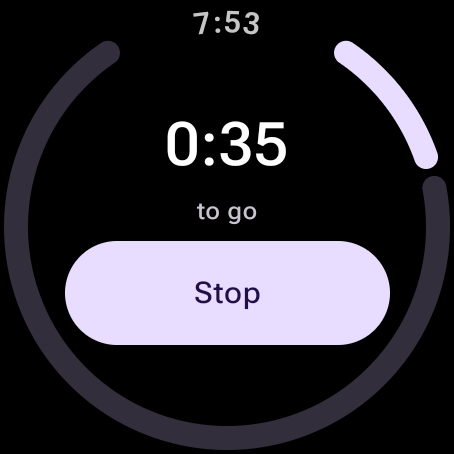
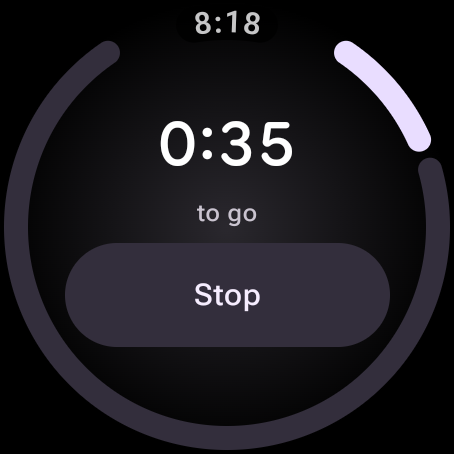
docs,chore: UX audit for centred Start, showcase replay script

diff --git a/wear/src/main/java/com/hapticwash/ui/MainActivity.kt b/wear/src/main/java/com/hapticwash/ui/MainActivity.kt
@@ -271,13 +271,7 @@ private fun StartScreen(onWash: () -> Unit, onHistory: () -> Unit, onSettings: (
     }
     val state = rememberTransformingLazyColumnState()
     val spec = rememberTransformationSpec()
-    // The one primary action hugs the bottom curve, where the Tile puts it too, so app and Tile read as one (§4.1.3).
-    ScreenScaffold(state, edgeButton = {
-        EdgeButton(::start, buttonSize = EdgeButtonSize.Medium) {
-            Text(stringResource(if (status.running) R.string.session_running else R.string.start_wash))
-        }
-    }) { padding ->
-        // Short enough to fit above the full-size EdgeButton: a longer list would shrink it until scrolled (§4.1.4).
+    ScreenScaffold(state) { padding ->
         TransformingLazyColumn(state = state, contentPadding = padding, verticalArrangement = Arrangement.spacedBy(4.dp, Alignment.CenterVertically)) {
             // The last takeaway in the Tile's words, so the screen says something at a glance. Weight and size make the hierarchy, not a container.
             item {

diff --git a/docs/UX_AUDIT.md b/docs/UX_AUDIT.md
@@ -9,7 +9,8 @@ power) and the `HapticWash` logcat tag.
 ## Screens
 
 `screencap` saves the full square frame. The watch shows only the inscribed circle. Screenshots
-replaced by the EdgeButton redesign (below) are kept as `ux/old_*.png`.
+replaced by the EdgeButton redesign (below) are kept as `ux/old_*.png`; the EdgeButton Start is
+`ux/old_start_edge.png`.
 
 | Screen | Screenshot |
 |---|---|
@@ -35,9 +36,9 @@ Columns are the screens: **St** Start, **IP** In-progress, **Su** Summary, **Hi*
 | § | Item | St | IP | Su | Hi | Se | Notes |
 |---|---|---|---|---|---|---|---|
 | 1 | Glanceable < 5 s | ✓ | ✓ | ✓ | ✓ | ✓ | Each screen has one header and short lines. Summary is five rows of a Step name and its Status. |
-| 2 | Round-safe, scaling list, `TimeText` | ✓ | ✓ | ✓ | ✓ | ✓ | Lists use `TransformingLazyColumn`, the Wear Material 3 successor to `ScalingLazyColumn`. `TimeText` comes from `AppScaffold` on every screen. Start is a short list above its EdgeButton; In-progress is centred and not scrollable. Settings and History can scroll their last row up to the centre of the screen. The ring leaves a 60° gap at the top for `TimeText` (fixed in this audit: it used to run under the clock). |
-| 3 | Touch targets ≥ 48 dp; one primary action | ✓ | ✓ | — | ✓ | ✓ | List buttons are 203 × 52 dp; Stop is 162 × 52 dp (widened after review); History rows are ≥ 52 dp tall. Start wash is an `EdgeButton` (bounds 227 × 70 dp; its shape follows the bottom curve), History and Settings 48 × 48 dp tonal icon buttons, Settings rows 203 × 52 dp (EdgeButton redesign, below). Start's primary action is Start wash; In-progress's is Stop. Summary, History and Settings are lists with no primary action, so none has more than one. |
-| 4 | One-tap start | ✓ | — | — | — | — | Start wash is the EdgeButton at the bottom of Start, shown at full size without scrolling. A single tap starts the service and opens In-progress. The Tile and the complication start a Wash from outside the app (below). |
+| 2 | Round-safe, scaling list, `TimeText` | ✓ | ✓ | ✓ | ✓ | ✓ | Lists use `TransformingLazyColumn`, the Wear Material 3 successor to `ScalingLazyColumn`. `TimeText` comes from `AppScaffold` on every screen. Start is a short list centred on its Start wash button; In-progress is centred and not scrollable. Settings and History can scroll their last row up to the centre of the screen. The ring leaves a 60° gap at the top for `TimeText` (fixed in this audit: it used to run under the clock). |
+| 3 | Touch targets ≥ 48 dp; one primary action | ✓ | ✓ | — | ✓ | ✓ | List buttons are 203 × 52 dp; Stop is 162 × 52 dp (widened after review); History rows are ≥ 52 dp tall. Start wash is a 203 × 52 dp button in the middle of Start, History and Settings 48 × 48 dp tonal icon buttons below it, Settings rows 203 × 52 dp (centred Start, below). Start's primary action is Start wash; In-progress's is Stop. Summary, History and Settings are lists with no primary action, so none has more than one. |
+| 4 | One-tap start | ✓ | — | — | — | — | Start wash is the button in the middle of Start, shown at full size without scrolling. A single tap starts the service and opens In-progress. The Tile and the complication start a Wash from outside the app (below). |
 | 5 | No text entry; dialogs ≤ 2 options; depth ≤ 2 | ✓ | ✓ | ✓ | ✓ | ✓ | No text fields. The only dialog is the system notification permission (Allow / Don't allow), now asked on the first Start tap. Wrist side is one row that flips between Left and Right on a tap. Deepest paths: Start → In-progress → Summary (In-progress is popped) and Start → History → Summary. Swipe-to-dismiss works from In-progress, Summary, History and Settings. A swipe mid-Wash leaves it running; Start then shows "Wash in progress" and returns to In-progress. |
 | 6 | Haptics, patterns, ≤ 1 per 3 s | — | ✓ | ◐ | — | ✓ | Since C1 (below) a fourth pattern, time reached, ticks at 40 s. From `dumpsys vibrator_manager`: start 80 ms; end 80 + 120 + 80 ms; missed-step 600 ms, starting 3.2 s after the end pulses start (13 s Wash, all `NOT_DETECTED`). A too-short Wash and a Timer-only Wash each got only start and end. Replays are silent. The Haptics setting is read at fire time (unit-tested in `HapticsTest`). See note A. |
 | 7 | Ambient / screen-off | — | ✓ | — | — | — | `KEYCODE_SLEEP` mid-Wash put the device in `Dozing`: 17 windows logged in 25 s (1.5 s stride), and on wake the Wash was still running at 0:45. No crash in logcat. |
@@ -207,6 +208,39 @@ left the bottom third empty, and said nothing until tapped.
 Screenshots retaken: Start, Start (Timer-only, corrupt-model build again; the real model was
 restored and is byte-identical), Settings and scrolled, History and scrolled (new), Tile.
 `./gradlew :wear:testDebugUnitTest`: 33 tests, 0 failures, 1 skipped.
+
+## Centred Start, tonal Stop and the live ring fix
+
+Same AVD, 2026-10-01. `MainActivity.kt` only.
+
+- **Start wash moves to the middle of Start**, with History and Settings below it, so the screen
+  stops reading as a face: the Coverage ring and text as eyes over the EdgeButton as a mouth.
+  The order, top to bottom: the last Wash's ring and takeaway, Start wash, then the two icon
+  buttons. The button is centred with the group rather than on the exact centre of the screen:
+  the takeaway above it is taller than the icon row below, and pinning the button to the centre
+  would leave too little room for it on small screens. Start wash has the drop icon again and
+  shrinks slightly on press, like Stop. The History and Settings row is no longer edge-scaled:
+  this low on the screen the transformation shrank them to 45 × 45 dp.
+- **The Tile keeps its EdgeButton.** The ring is the Tile's hero and the edge slot is where
+  every Tile puts its action, so app and Tile no longer share Start's position; they still share
+  its words, ring and colours.
+- **Stop is tonal** (`FilledTonalButton`), so the countdown leads; same 162 × 52 dp target.
+
+| Screen | Clickable bounds (`uiautomator`) |
+|---|---|
+| Start | Start wash 203 × 52 dp, History 48 × 48 dp, Settings 48 × 48 dp |
+
+- **Fix: the live ring stood still.** Since the frame-smooth ring (C5), the ring stayed empty
+  through a Wash started from Start and jumped to full at 40 s. Wear's `CircularProgressIndicator`
+  restarts its own progress animation on every new value; fed a new value every frame, it never
+  got past the animation's first frame, and only caught up once the value stopped changing at
+  100 %. A replayed Wash hid it. The ring is now drawn with `drawCircularProgressIndicator`, the
+  same arc without the animation; the frame loop already makes it smooth. Checked on a Wash
+  started from Start: about an eighth full at "0:35 to go", half at "0:20", full in the reached
+  colour at "40 s reached".
+
+Screenshots retaken: Start, In-progress (ring on). Not retaken: Start (Timer-only, needs the
+corrupt-model build), In-progress (ring off and Timer-only), which still show the filled Stop.
 
 ## Other M4 checks
 

diff --git a/README.md b/README.md
@@ -16,20 +16,21 @@ which appear to have been missed, and keeps a local history of recent washes.
 It is a hygiene coach, not a medical device and not a compliance-verification system. No
 output may be phrased as a guarantee that hands are clean.
 
-## Running it (M4)
+## Running it
 
 The model and golden files come from `HapticWash-AI/artifacts/` (release `step-classifier`
 0.1.0). To take a new model, copy `model.tflite` + `model_meta.json` into
 `wear/src/main/assets/model/` and `golden/*.npy` into `wear/src/androidTest/assets/golden/`.
 
 Needs `JAVA_HOME` (JDK 17+), `ANDROID_HOME` (or `sdk.dir` in `local.properties`), `adb` on
-`PATH`, and a running Wear OS AVD for the last three. Run the scripts from Git Bash.
+`PATH`, and a running Wear OS AVD for the last four. Run the scripts from Git Bash.
 
 ```sh
 ./gradlew :wear:testDebugUnitTest            # parity, Coverage, History, haptics, manifest and banned-language rules
 ./gradlew :wear:connectedDebugAndroidTest    # inference parity + latency, model-load failure (Wear AVD)
 scripts/replay_demo.sh session.csv [speed]   # replay a canonical CSV on the AVD, stream predictions
 scripts/replay_batch.sh <csv dir> [speed]    # replay 10 held-out sessions, write reports/M4_replay.md
+scripts/showcase.sh [good|mixed|right|csv] [speed]  # demo: replay a Wash with the screens following along
 scripts/release_smoke.sh                     # R8 release build loads the model
 ```
 
